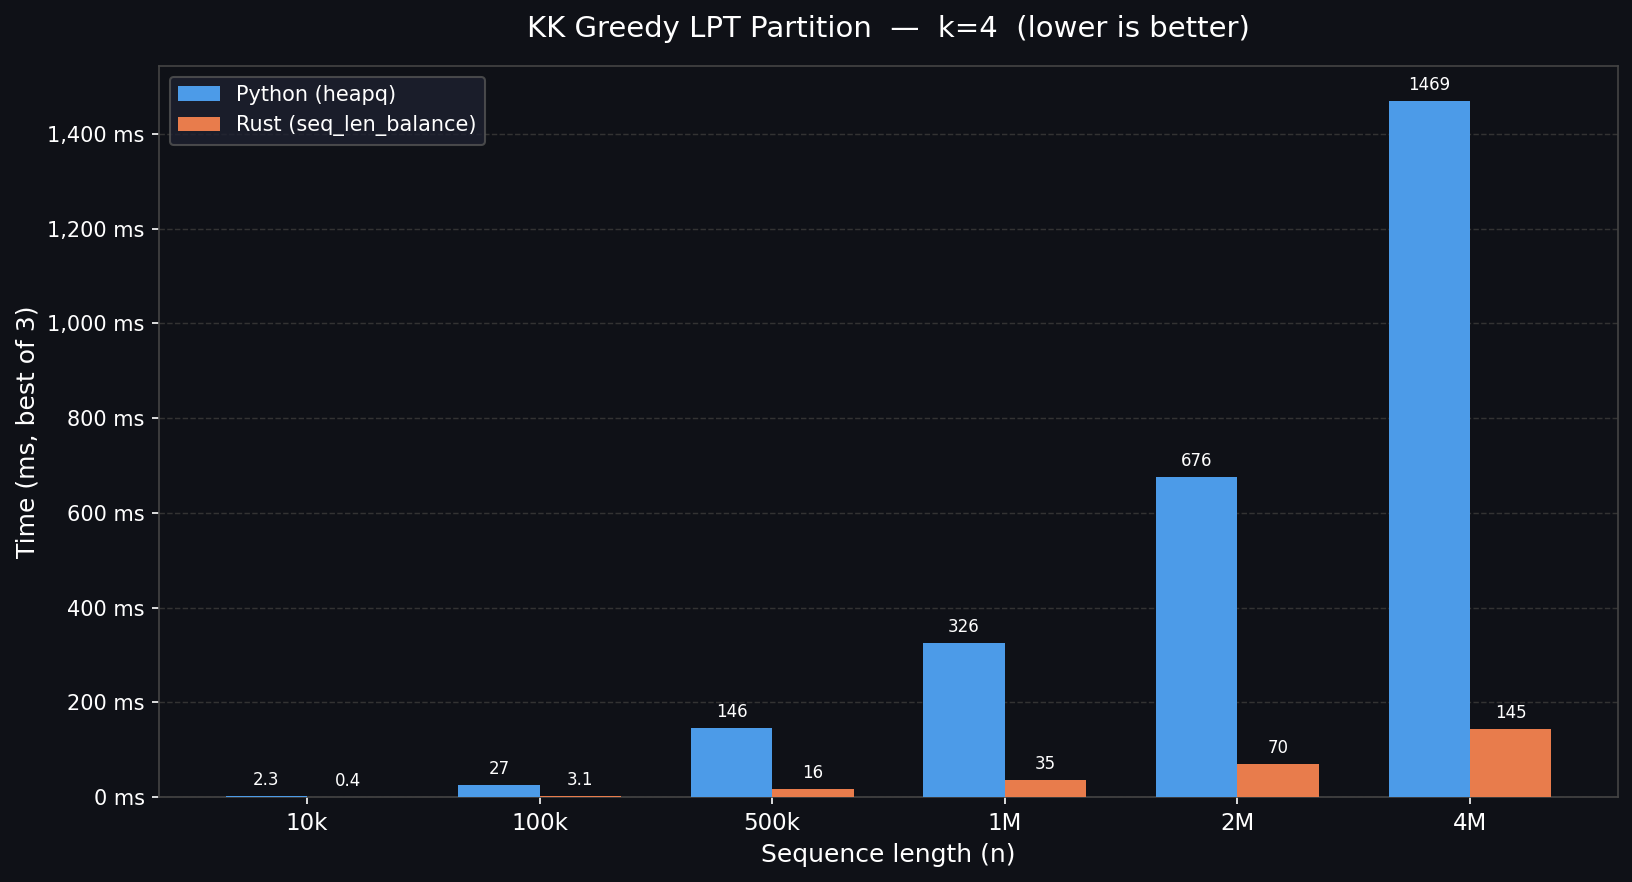
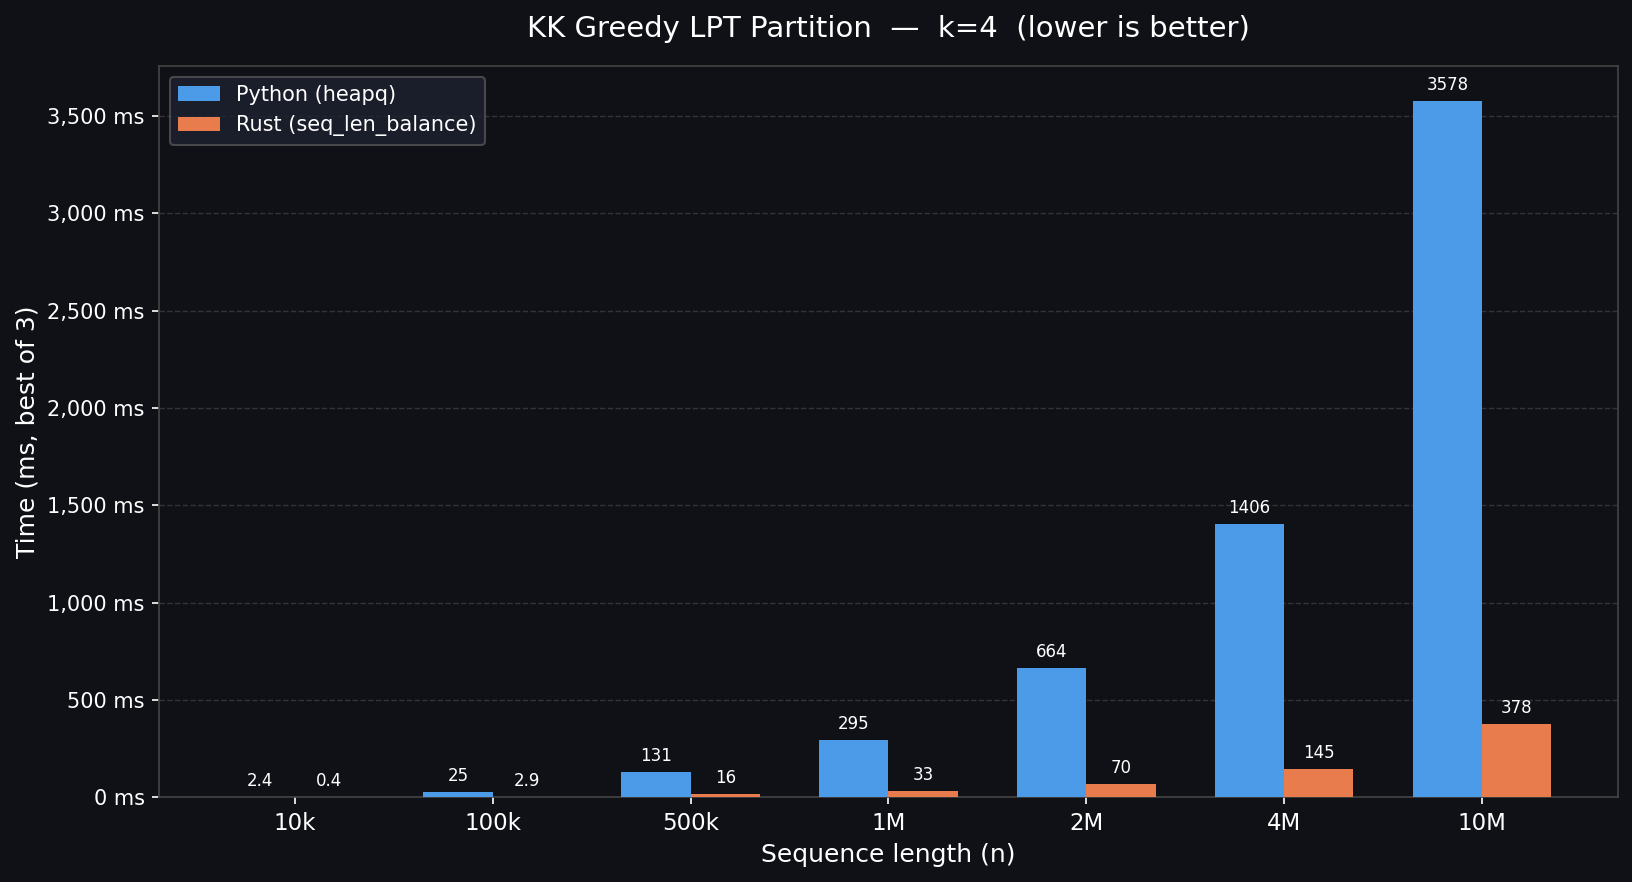
add readme

diff --git a/test_kk.py b/test_kk.py
@@ -270,7 +270,7 @@ if __name__ == "__main__":
     BENCHMARK_DIR = pathlib.Path(__file__).parent / "benchmark"
     BENCHMARK_DIR.mkdir(exist_ok=True)
 
-    SIZES = [10_000, 100_000, 500_000, 1_000_000, 2_000_000, 4_000_000]
+    SIZES = [10_000, 100_000, 500_000, 1_000_000, 2_000_000, 4_000_000, 10_000_000]
     K = 4
     REPEATS = 3  # average over this many runs to reduce noise
 

diff --git a/README.md b/README.md
@@ -1,12 +1,48 @@
 # seq-len-balance-rs
 
-## Installing evcxr (Rust Jupyter kernel)
+Fast sequence-length balancing: KK partition, FFD, and BFD bin packing (Rust + Python).
 
-To use Rust in Jupyter notebooks, install evcxr and register it as a kernel:
+## Setup
+
+```bash
+uv sync
+pip install maturin
+maturin develop
+```
+
+## Usage
+
+```python
+from seq_len_balance import kk, ffd, bfd
+
+print(kk([8, 7, 6, 5, 4], 2))   # -> [[8, 5], [7, 4], [6]]
+print(ffd([6, 3, 4, 5, 2, 7, 1], 10))  # -> [[7, 3], [6, 4], [5, 2, 1]]
+print(bfd([6, 3, 4, 5, 2, 7, 1], 10))  # -> [[7, 2, 1], [6, 4], [5, 3]]
+```
+
+## Benchmark
+
+```bash
+uv sync --group benchmark
+uv run python test_kk.py
+```
+
+```
+=================================================================
+KK (greedy LPT) benchmark  k=4  repeats=3
+=================================================================
+n=   10,000  Python:      2.4 ms   Rust:      0.4 ms
+n=  100,000  Python:     25.5 ms   Rust:      2.9 ms
+n=  500,000  Python:    131.4 ms   Rust:     16.3 ms
+n=1,000,000  Python:    294.7 ms   Rust:     33.1 ms
+n=2,000,000  Python:    663.9 ms   Rust:     69.6 ms
+n=4,000,000  Python:   1405.9 ms   Rust:    144.9 ms
+n=10,000,000  Python:   3577.8 ms   Rust:    377.6 ms
+```
+
+## Rust in Jupyter (optional)
 
 ```bash
 cargo install evcxr_jupyter
 evcxr_jupyter --install
 ```
-
-Then restart Jupyter (or refresh the page). Rust will appear as a kernel option when creating a new notebook.
